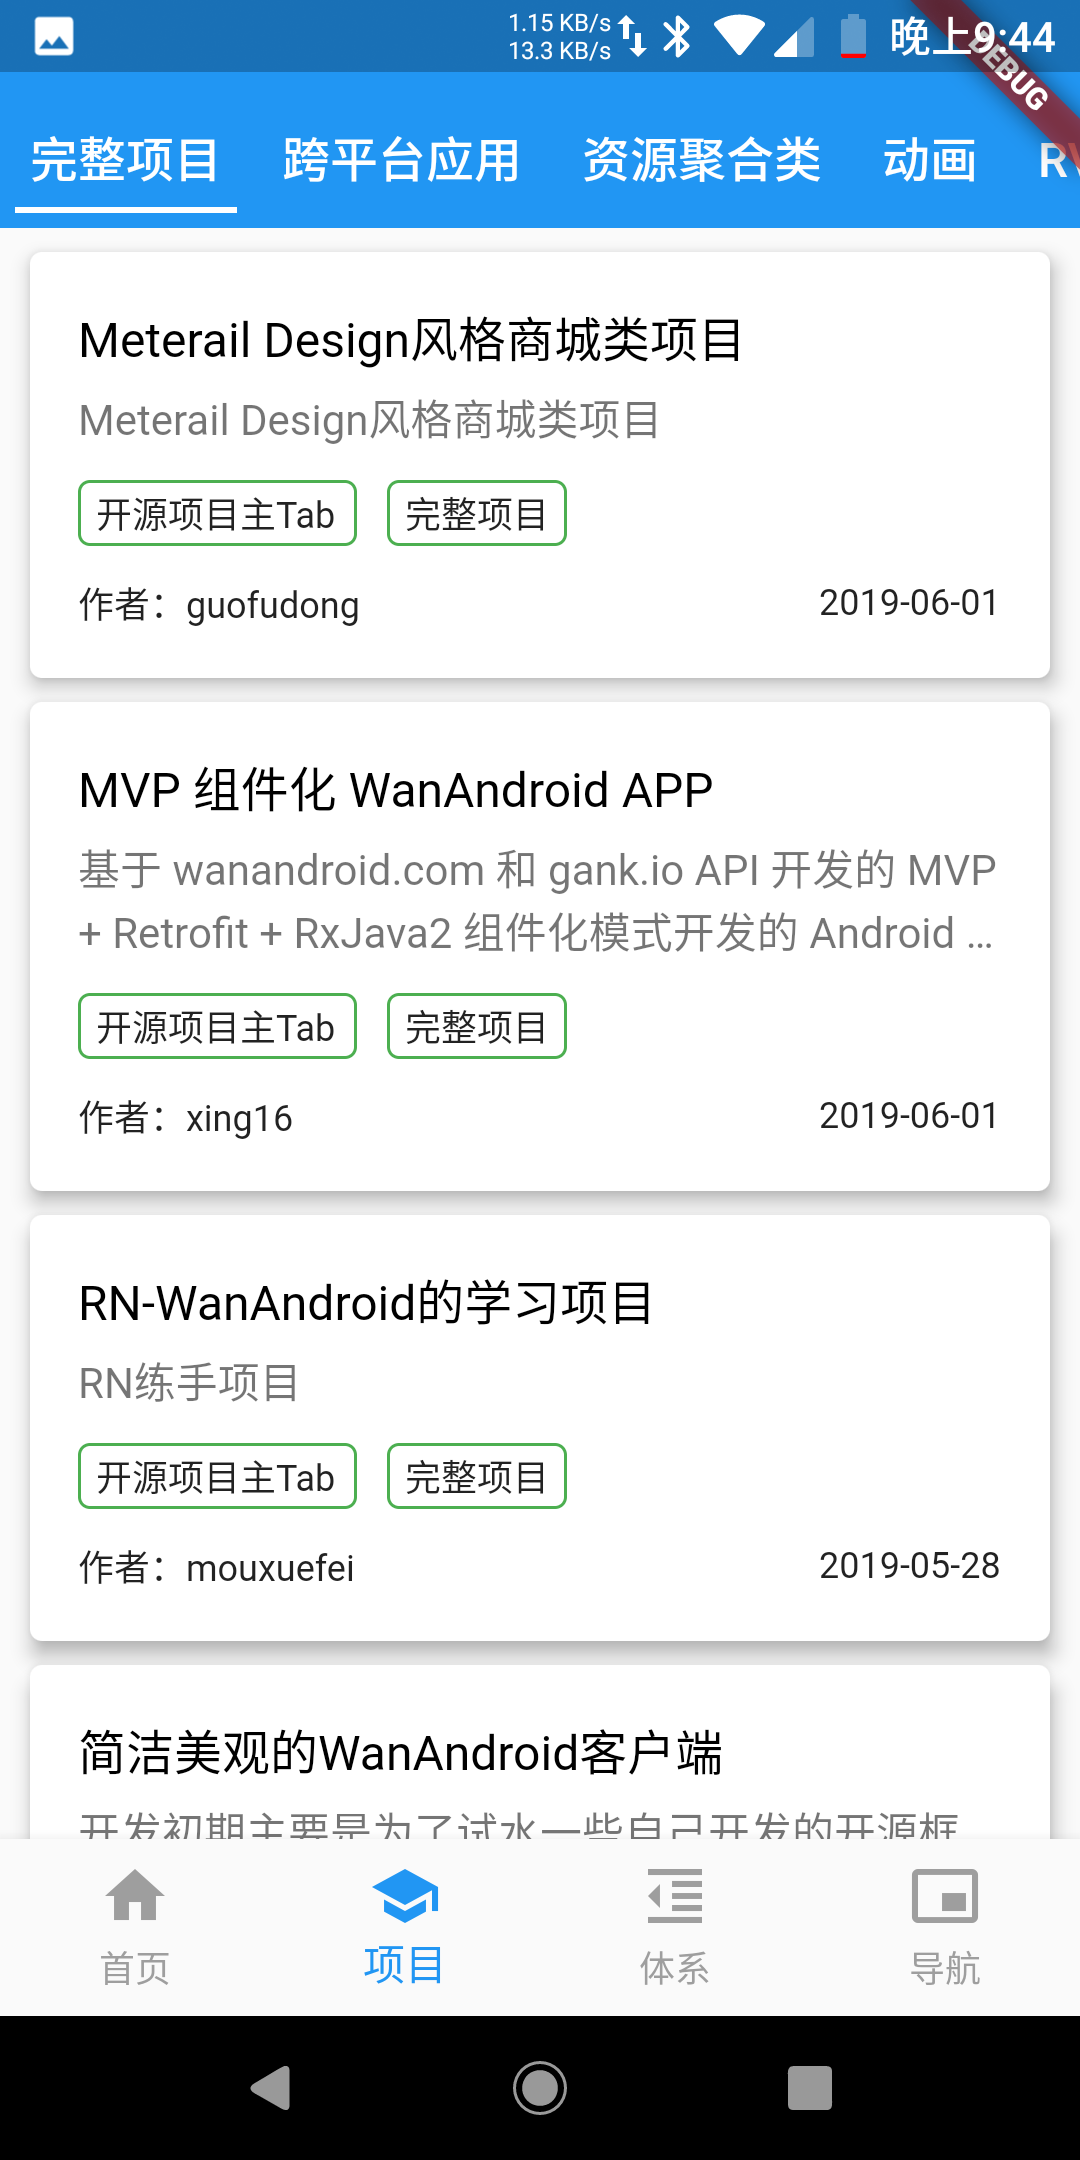
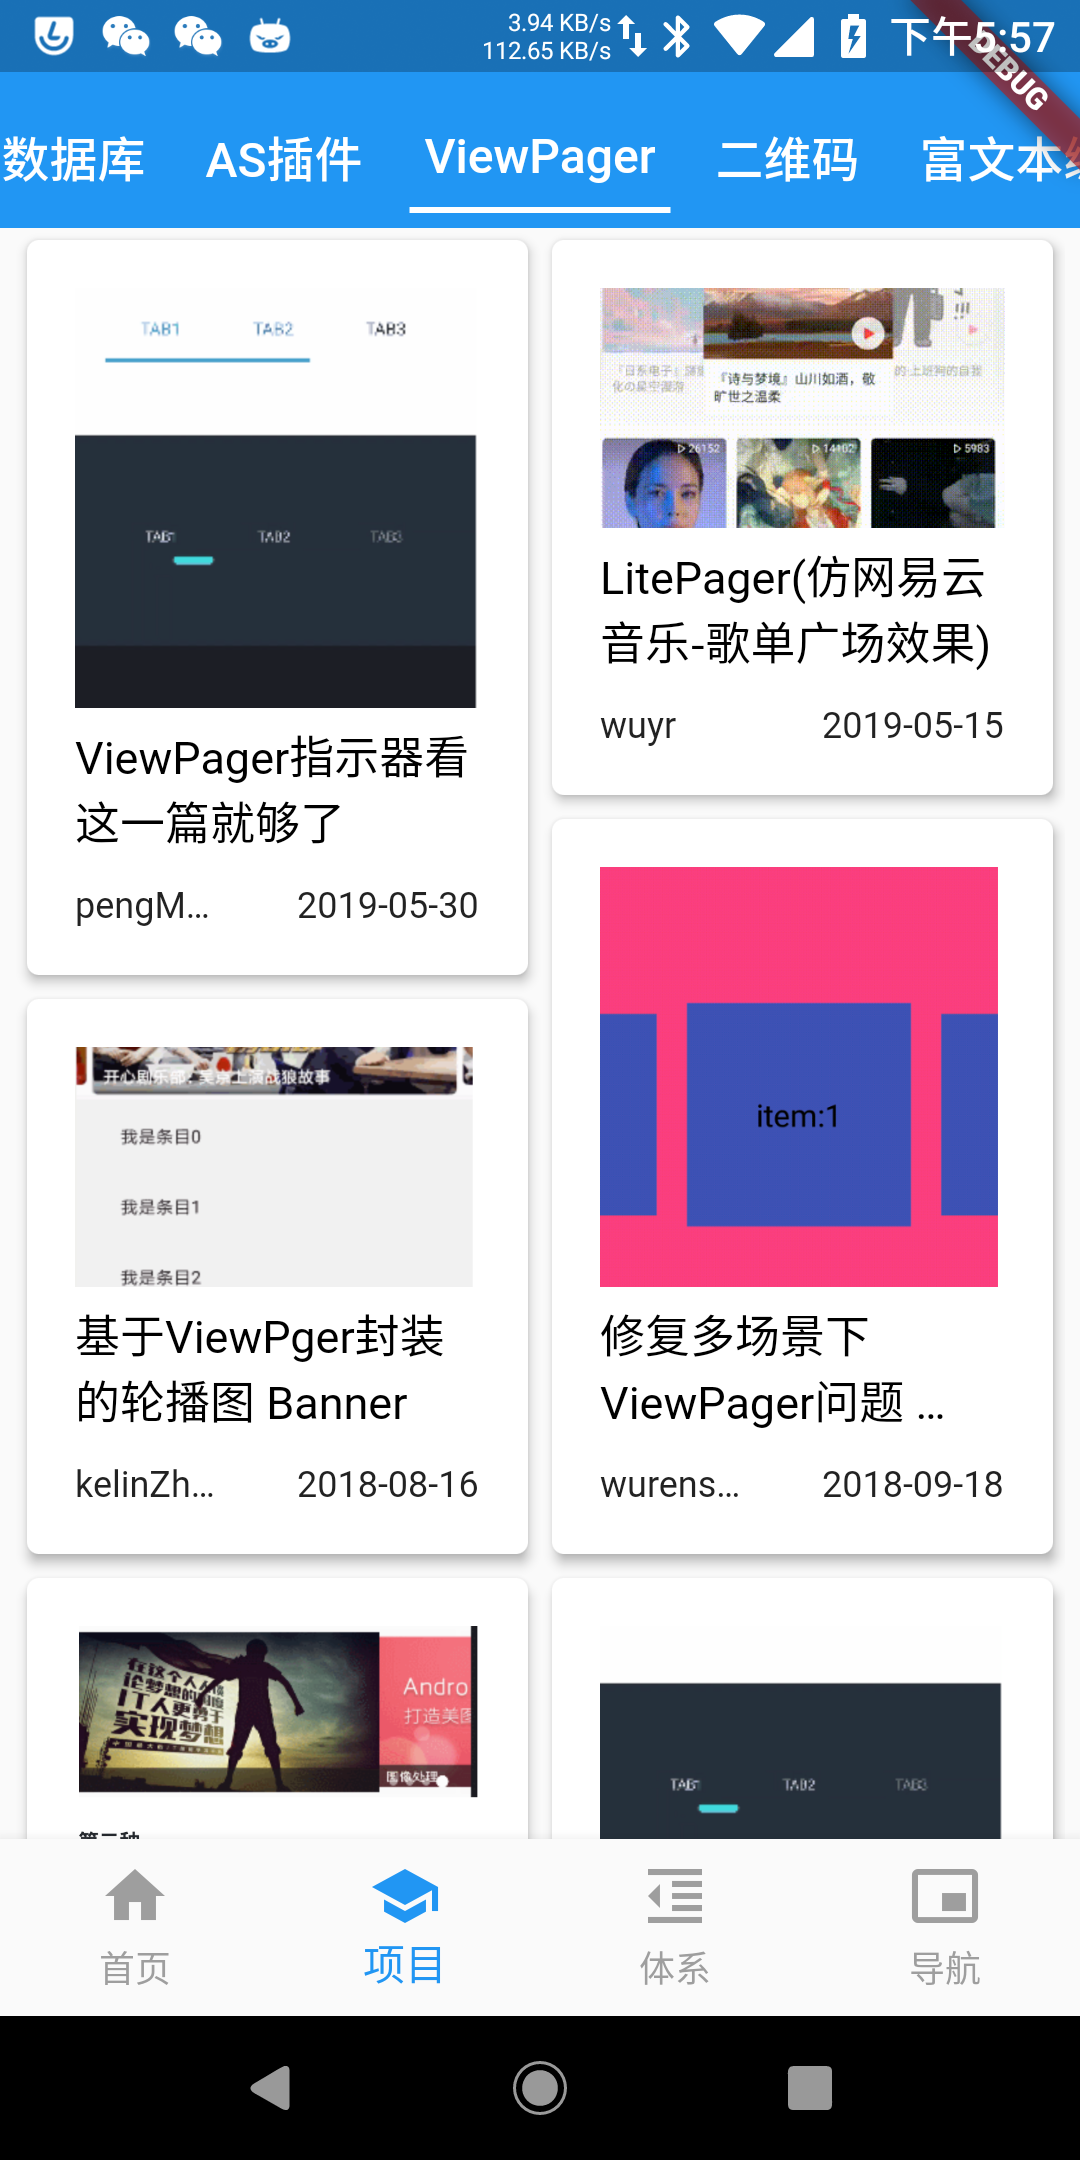
修改README.md文件

diff --git a/README.md b/README.md
@@ -8,7 +8,7 @@
 
 > 首页 ：主要实现banner和首页文章列表以及侧拉菜单的用户个人中心。
 
-> 项目 ：主要实现的是项目分类以及项目列表数据。
+> 项目 ：主要实现的是项目分类以及项目列表数据，使用瀑布流模式实现。
  
 > 体系 ：主要实现的是体系数据和知识体系下文章，包括基础知识、开发环境、常用控件等等。
  
@@ -23,7 +23,7 @@
 - [http](https://pub.dev/packages/http)
 - [toast](https://pub.dev/packages/toast)
 - [shared_preferences](https://pub.dev/packages/shared_preferences)
-
+- [flutter_staggered_grid_view](https://github.com/letsar/flutter_staggered_grid_view)
 
 ## 项目截图
 
